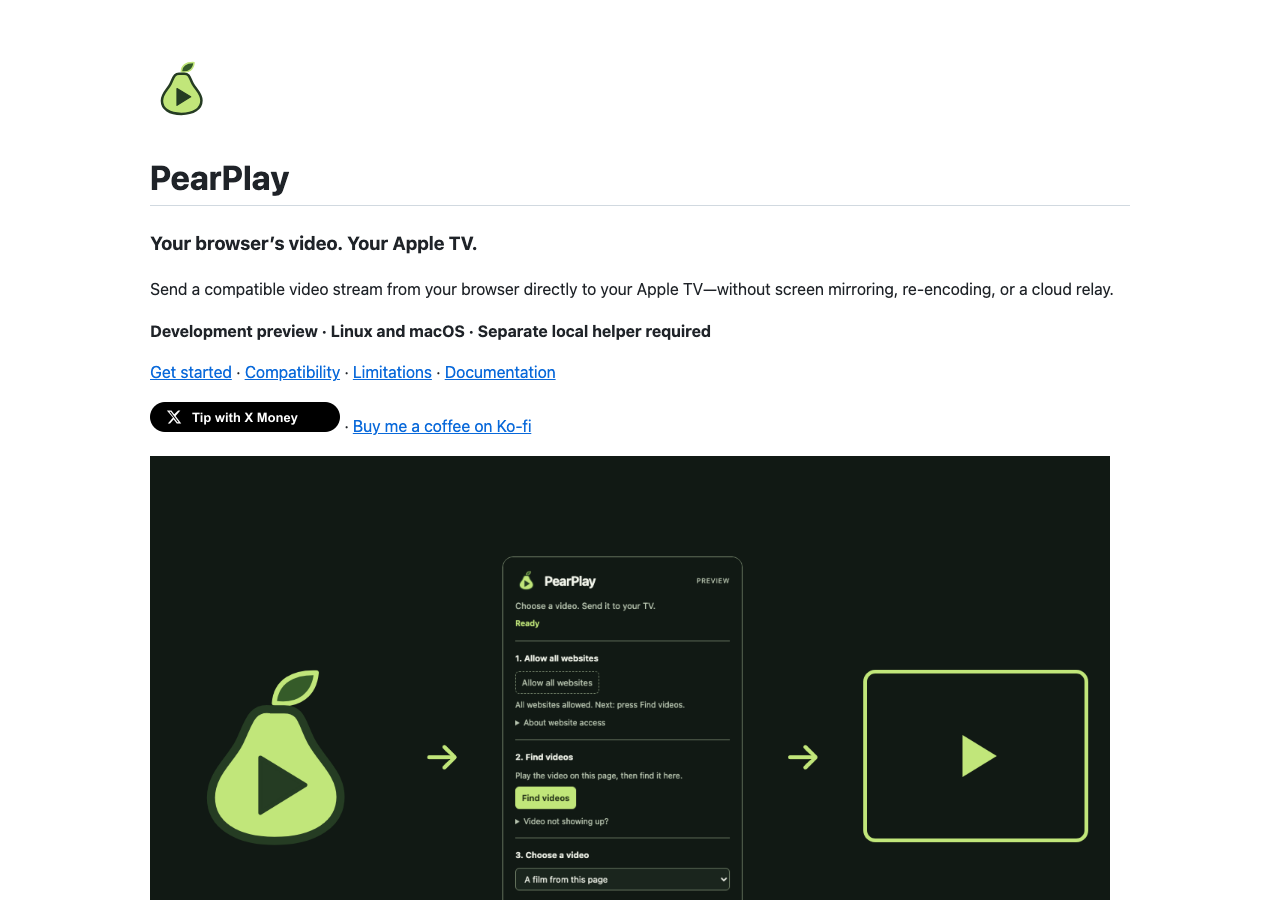
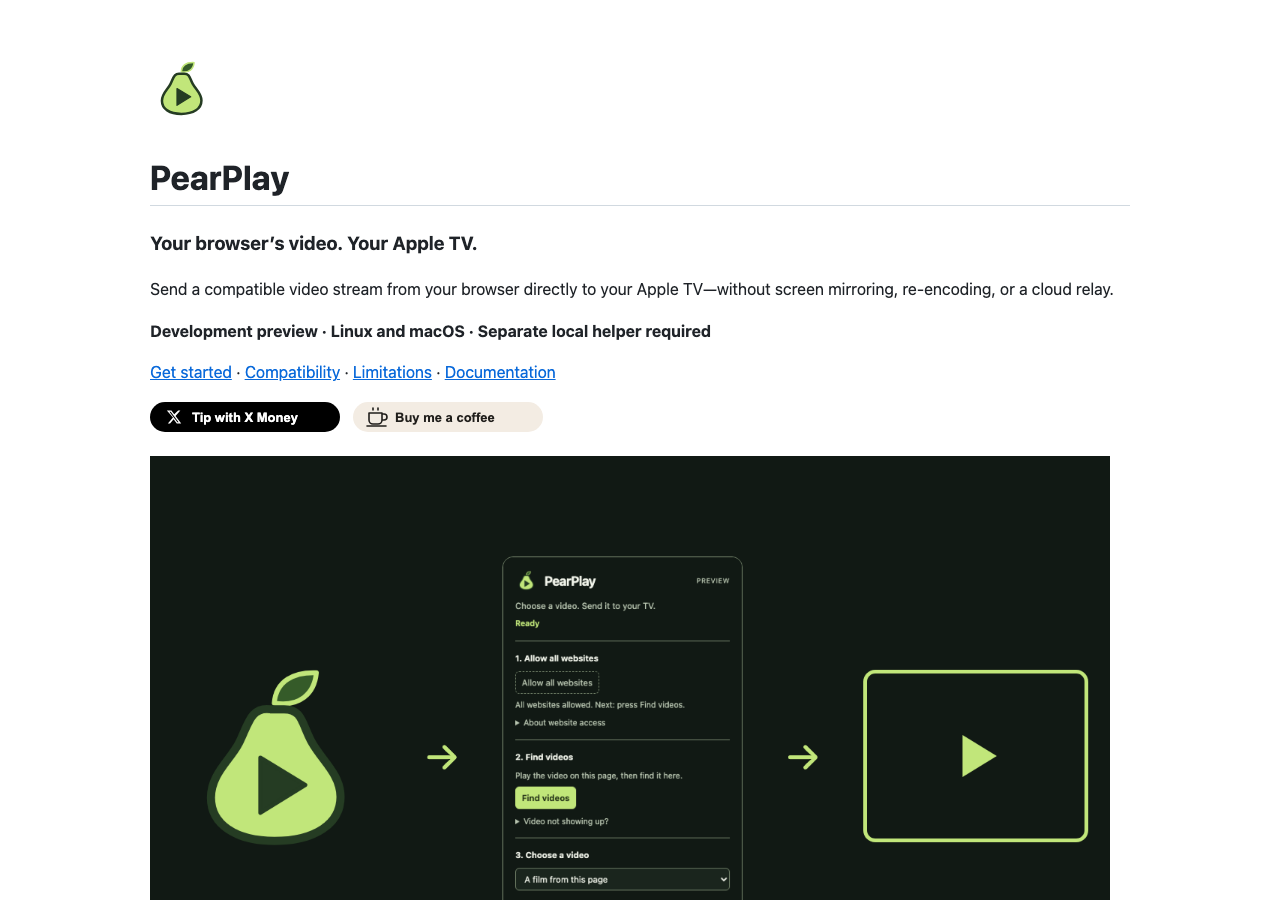
docs: pair matching X Money and coffee badges in README

Changed region(s): [[0.2812, 0.4356, 0.4375, 0.4978], [0.1562, 0.4356, 0.1875, 0.4667]]

diff --git a/assets/landing/readme.html b/assets/landing/readme.html
@@ -4,7 +4,11 @@
 <p>Send a compatible video stream from your browser directly to your Apple TV—without screen mirroring, re-encoding, or a cloud relay.</p>
 <p><strong>Development preview · Linux and macOS · Separate local helper required</strong></p>
 <p><a href="#get-started">Get started</a> · <a href="#compatibility">Compatibility</a> · <a href="#limitations">Limitations</a> · <a href="#documentation">Documentation</a></p>
-<p><a href="https://x.com/scottito22"><img alt="Tip with X Money" src="tip-with-x-money.png" /></a> · <a href="https://ko-fi.com/scottangel">Buy me a coffee on Ko-fi</a></p>
+<p>
+  <a href="https://x.com/scottito22"><img src="tip-with-x-money.svg" alt="Tip with X Money" width="190" height="30"></a>&nbsp;&nbsp;
+  <a href="https://ko-fi.com/scottangel"><img src="buy-me-a-coffee.svg" alt="Buy me a coffee on Ko-fi" width="190" height="30"></a>
+</p>
+
 <p><img src="assets/landing/hero.png" width="960" alt="PearPlay branding, an extension popup using example data, and an illustration of a TV"></p>
 <p><em>Actual extension interface with example data. The screenshot is not evidence of live TV playback.</em></p>
 <h2>What PearPlay does</h2>

diff --git a/README.md b/README.md
@@ -10,7 +10,10 @@ Send a compatible video stream from your browser directly to your Apple TV—wit
 
 [Get started](#get-started) · [Compatibility](#compatibility) · [Limitations](#limitations) · [Documentation](#documentation)
 
-[![Tip with X Money](tip-with-x-money.png)](https://x.com/scottito22) · [Buy me a coffee on Ko-fi](https://ko-fi.com/scottangel)
+<p>
+  <a href="https://x.com/scottito22"><img src="tip-with-x-money.svg" alt="Tip with X Money" width="190" height="30"></a>&nbsp;&nbsp;
+  <a href="https://ko-fi.com/scottangel"><img src="buy-me-a-coffee.svg" alt="Buy me a coffee on Ko-fi" width="190" height="30"></a>
+</p>
 
 <img src="assets/landing/hero.png" width="960" alt="PearPlay branding, an extension popup using example data, and an illustration of a TV">
 
